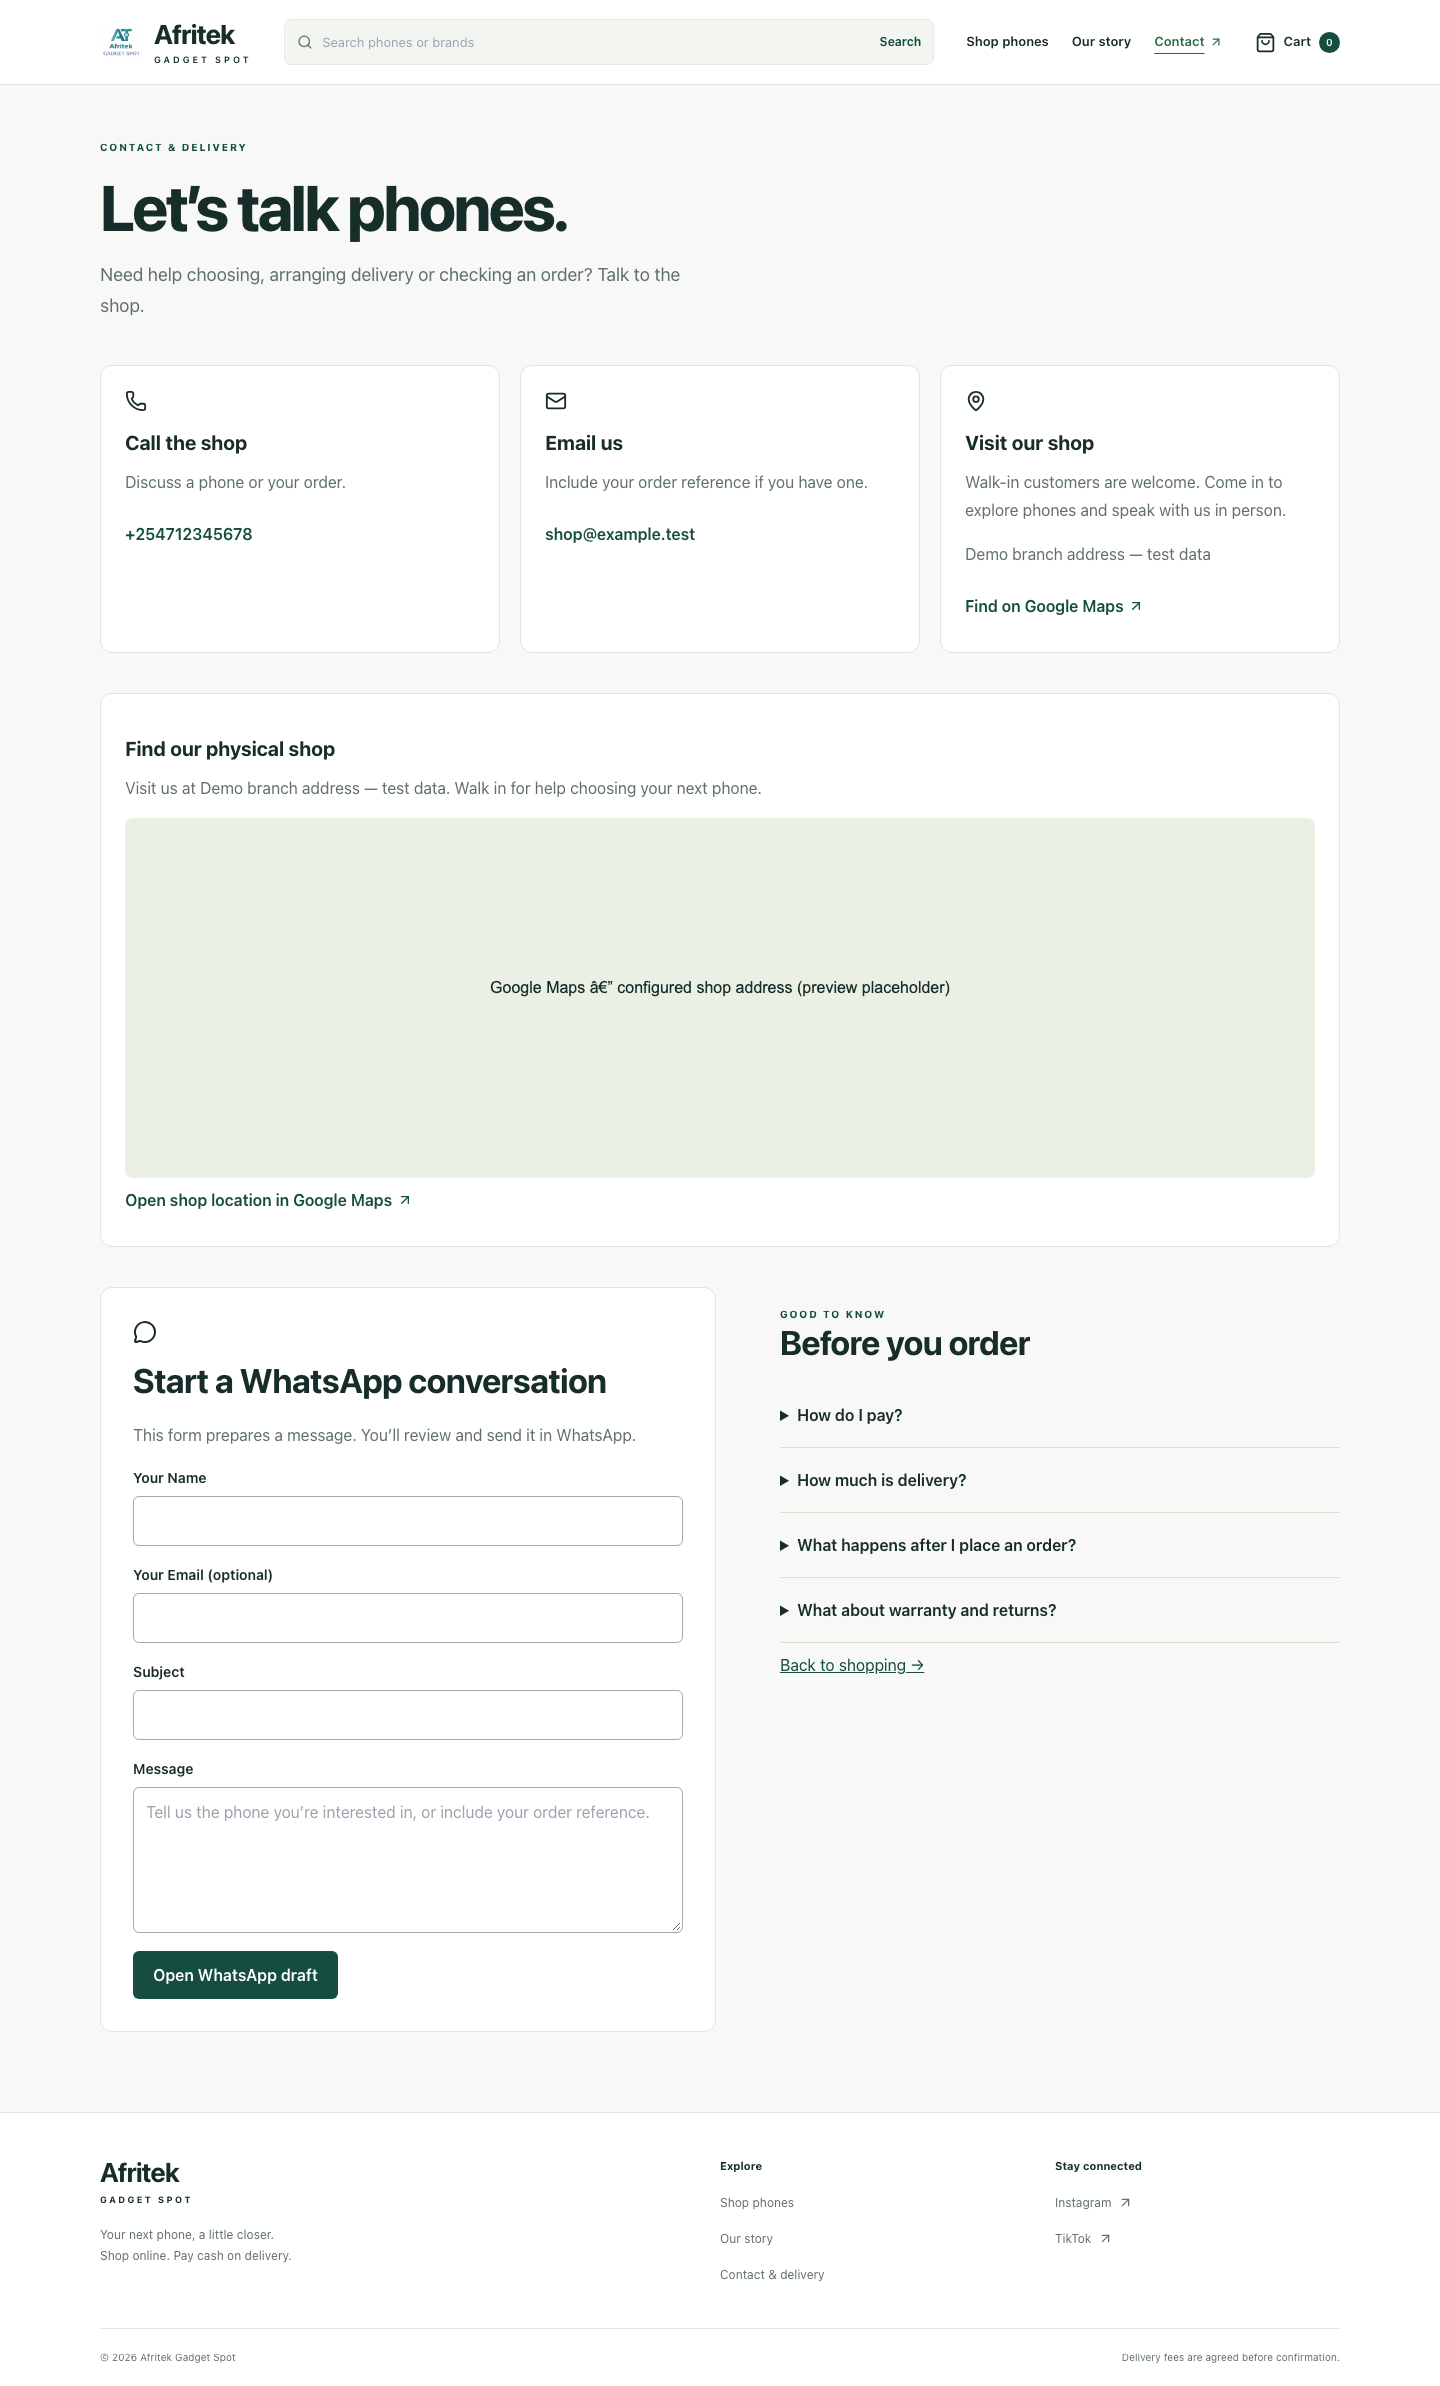
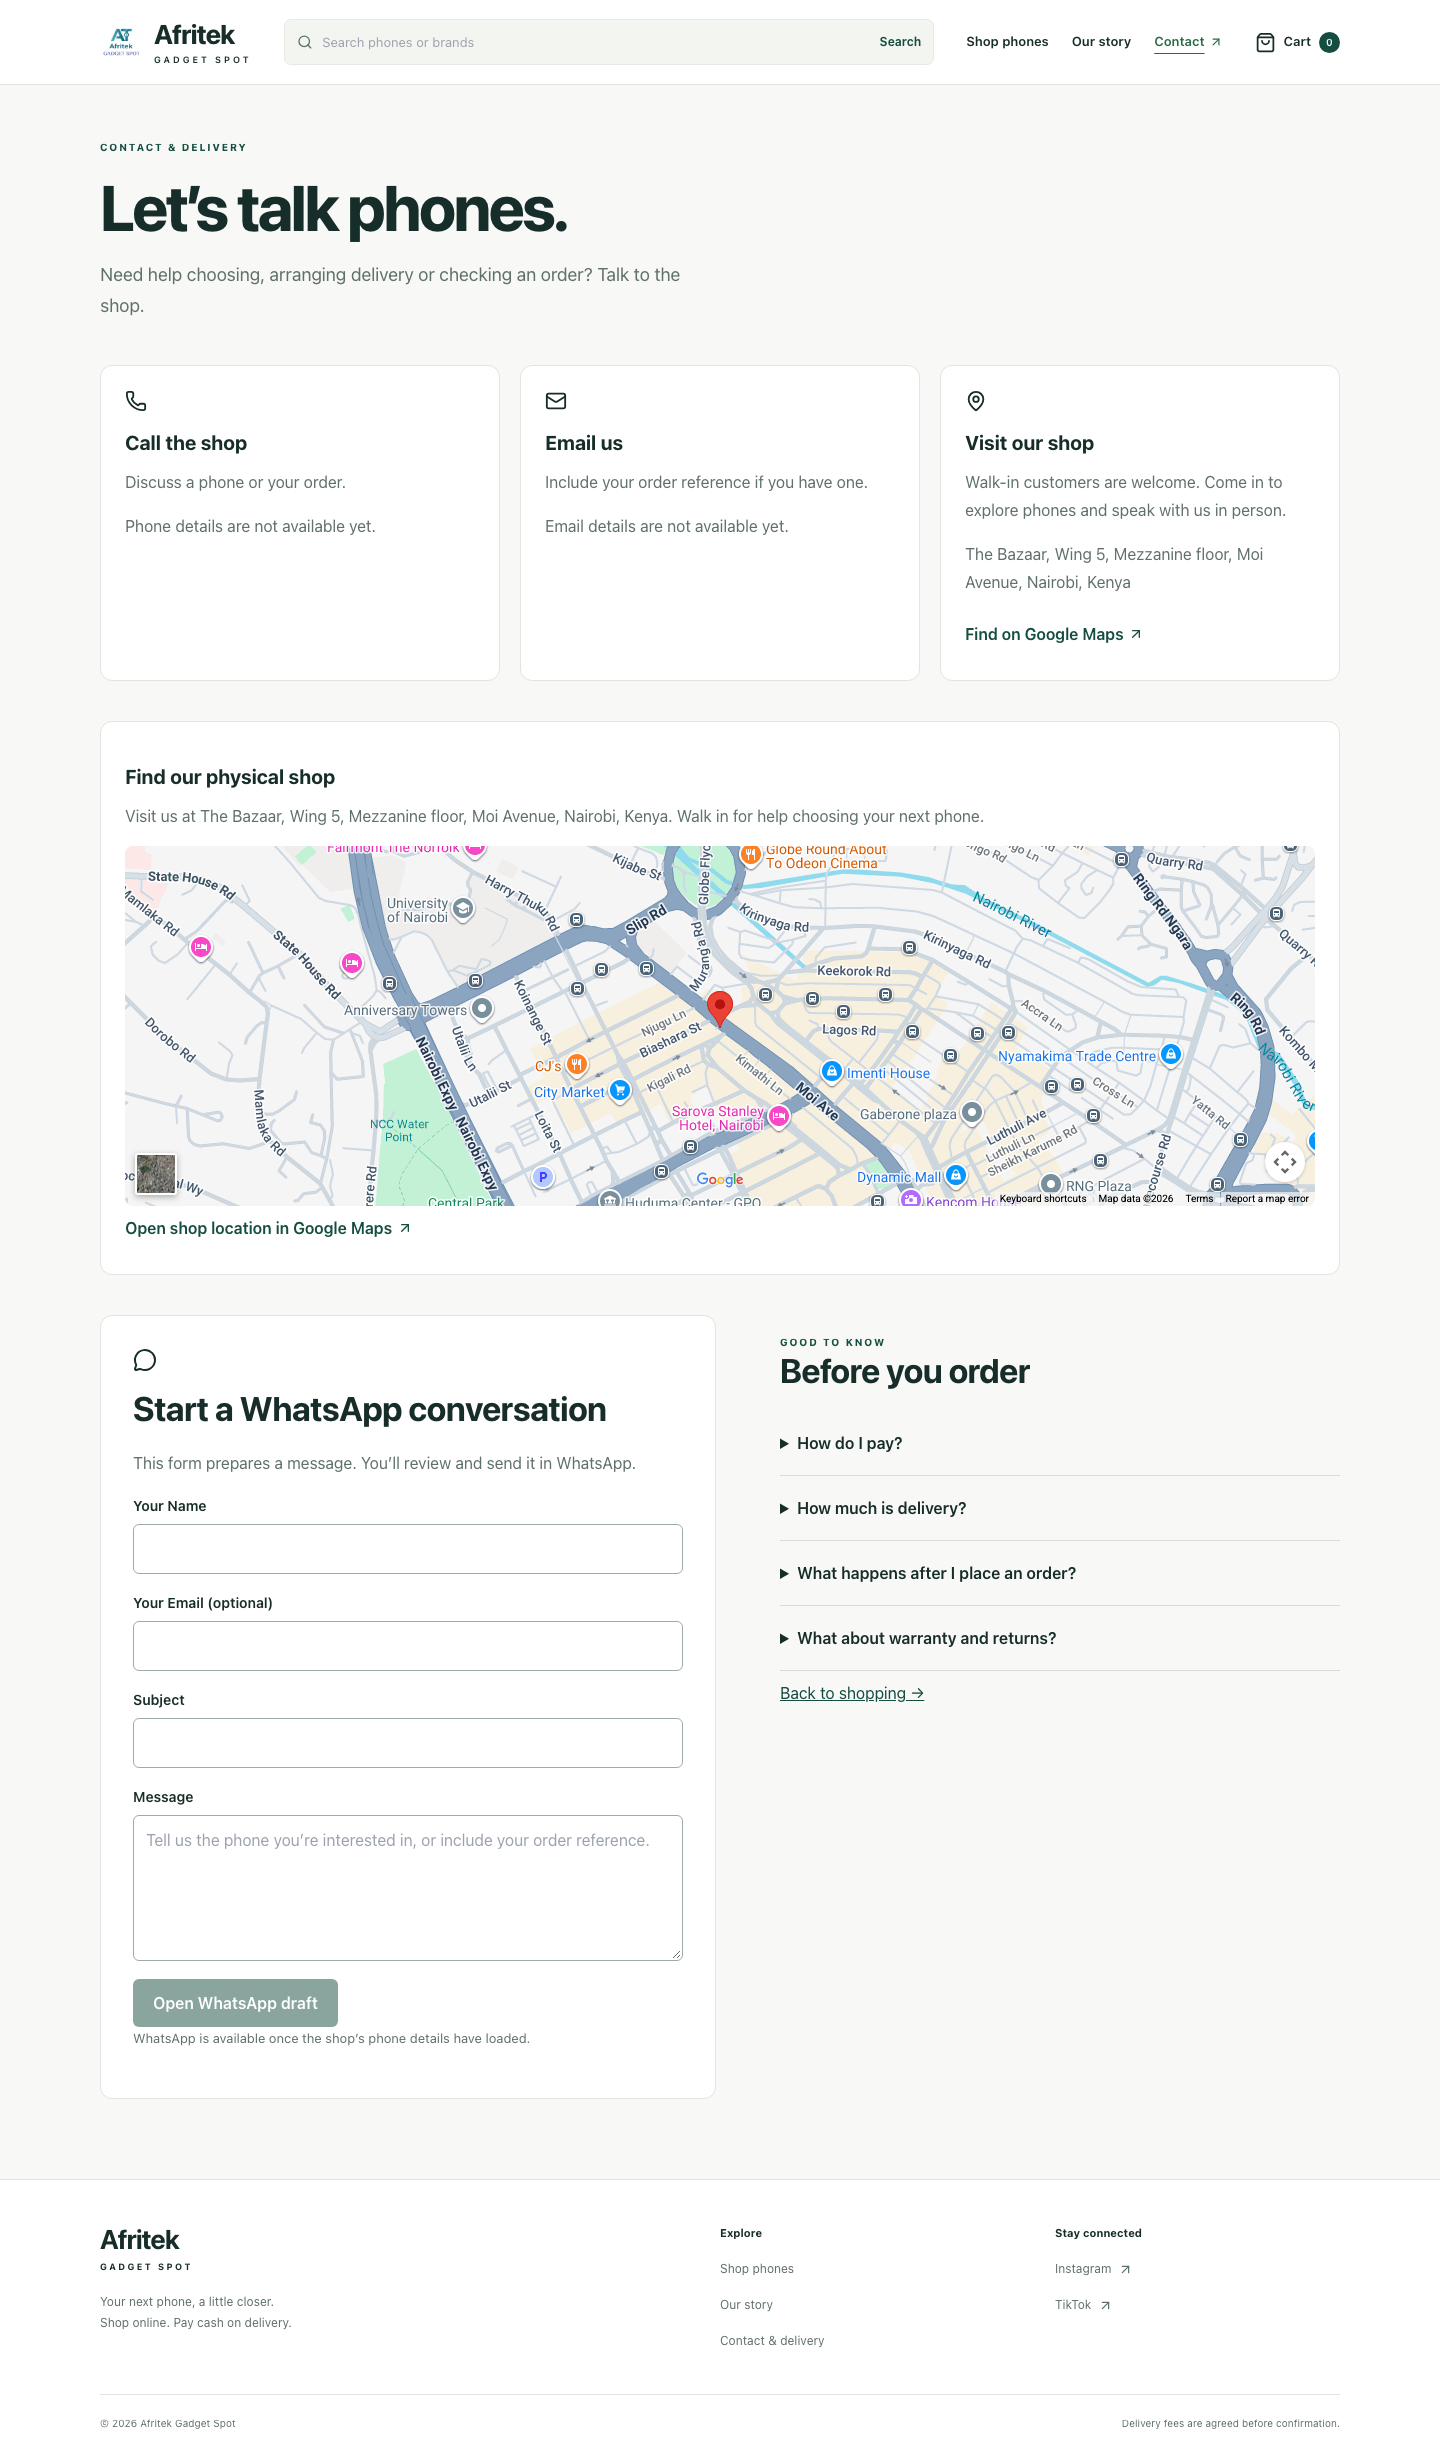
Preserve original branch coordinates and capture real Google Map

diff --git a/afritek-gadget-spot/src/Pages/Contact.js b/afritek-gadget-spot/src/Pages/Contact.js
@@ -8,7 +8,9 @@ export default function Contact() {
   const [form, setForm] = useState({ name: '', email: '', subject: '', message: '' });
   const [notice, setNotice] = useState('');
   const phone = shop.data?.phone;
-  const address = shop.data?.address;
+  const configuredAddress = shop.data?.address?.trim();
+  const address = configuredAddress || 'The Bazaar, Wing 5, Mezzanine floor, Moi Avenue, Nairobi, Kenya';
+  const mapQuery = configuredAddress || '-1.2819548,36.8216073';
   function submit(event) {
     event.preventDefault();
     if (!phone) return;
@@ -22,13 +24,13 @@ export default function Contact() {
     {!shop.loading && !shop.error && <div className="contact-cards">
       <section className="information-card"><Phone size={22} /><h2>Call the shop</h2><p>Discuss a phone or your order.</p>{phone ? <a href={`tel:${phone}`}>{phone}</a> : <p>Phone details are not available yet.</p>}</section>
       <section className="information-card"><Mail size={22} /><h2>Email us</h2><p>Include your order reference if you have one.</p>{shop.data?.email ? <a href={`mailto:${shop.data.email}`}>{shop.data.email}</a> : <p>Email details are not available yet.</p>}</section>
-      <section className="information-card"><MapPin size={22} /><h2>Visit our shop</h2><p>Walk-in customers are welcome. Come in to explore phones and speak with us in person.</p><p>{address || 'Contact the shop for location and opening hours before visiting.'}</p>{address && <a href={`https://www.google.com/maps/search/?api=1&query=${encodeURIComponent(address)}`} target="_blank" rel="noreferrer">Find on Google Maps <ArrowUpRight size={16} /></a>}</section>
+      <section className="information-card"><MapPin size={22} /><h2>Visit our shop</h2><p>Walk-in customers are welcome. Come in to explore phones and speak with us in person.</p><p>{address || 'Contact the shop for location and opening hours before visiting.'}</p>{address && <a href={`https://www.google.com/maps/search/?api=1&query=${encodeURIComponent(mapQuery)}`} target="_blank" rel="noreferrer">Find on Google Maps <ArrowUpRight size={16} /></a>}</section>
     </div>}
     {address && <section className="information-card shop-location" aria-labelledby="shop-location-heading">
       <h2 id="shop-location-heading">Find our physical shop</h2>
       <p>Visit us at {address}. Walk in for help choosing your next phone.</p>
-      <iframe title="Afritek Gadget Spot shop location" src={`https://www.google.com/maps?q=${encodeURIComponent(address)}&output=embed`} width="100%" height="360" loading="lazy" referrerPolicy="no-referrer-when-downgrade" allowFullScreen style={{ border: 0, borderRadius: 8 }} />
-      <a href={`https://www.google.com/maps/search/?api=1&query=${encodeURIComponent(address)}`} target="_blank" rel="noreferrer">Open shop location in Google Maps <ArrowUpRight size={16} /></a>
+      <iframe title="Afritek Gadget Spot shop location" src={`https://www.google.com/maps?q=${encodeURIComponent(mapQuery)}&output=embed`} width="100%" height="360" loading="lazy" referrerPolicy="no-referrer-when-downgrade" allowFullScreen style={{ border: 0, borderRadius: 8 }} />
+      <a href={`https://www.google.com/maps/search/?api=1&query=${encodeURIComponent(mapQuery)}`} target="_blank" rel="noreferrer">Open shop location in Google Maps <ArrowUpRight size={16} /></a>
     </section>}
     <div className="contact-layout"><section className="information-card contact-form"><MessageCircle size={24} /><h2>Start a WhatsApp conversation</h2><p>This form prepares a message. You’ll review and send it in WhatsApp.</p>
       <form onSubmit={submit}>{[['name', 'Your Name', 'text', 120], ['email', 'Your Email (optional)', 'email', 254], ['subject', 'Subject', 'text', 120]].map(([name, label, type, max]) => <label key={name} htmlFor={`contact-${name}`}>{label}<input id={`contact-${name}`} type={type} maxLength={max} required={name !== 'email'} autoComplete={name === 'subject' ? 'off' : name} value={form[name]} onChange={e => setForm({ ...form, [name]: e.target.value })} /></label>)}

diff --git a/afritek-gadget-spot/tests/storefront.spec.js b/afritek-gadget-spot/tests/storefront.spec.js
@@ -224,14 +224,15 @@ test('budget validation, applied chips and browser history preserve filters', as
   await expect(page.getByLabel('Brand', { exact: true })).toHaveValue('Samsung');
 });
 
-test('missing shop details never invent a map or enable a WhatsApp draft', async ({ page }) => {
+test('empty shop settings retain the original physical shop map and disable WhatsApp', async ({ page }) => {
   await mockShop(page, async route => {
     if (new URL(route.request().url()).pathname.endsWith('/shop')) { await route.fulfill({ json: { name: 'Afritek', phone: null, email: null, address: null } }); return true; }
   });
   await page.goto('/contact');
   await expect(page.getByText('Phone details are not available yet.')).toBeVisible();
   await expect(page.getByRole('button', { name: 'Open WhatsApp draft' })).toBeDisabled();
-  await expect(page.locator('a[href*="google.com/maps"], iframe')).toHaveCount(0);
+  await expect(page.getByTitle('Afritek Gadget Spot shop location')).toHaveAttribute('src', 'https://www.google.com/maps?q=-1.2819548%2C36.8216073&output=embed');
+  await expect(page.getByText('The Bazaar, Wing 5, Mezzanine floor, Moi Avenue, Nairobi, Kenya', { exact: true })).toBeVisible();
   await page.getByText('How much is delivery?', { exact: true }).click();
   await expect(page.getByText('We agree the delivery fee and timing', { exact: false })).toBeVisible();
 });

diff --git a/docs/implementation-status.md b/docs/implementation-status.md
@@ -58,3 +58,5 @@ PR checks revealed two existing Netlify integrations. One reported a failed depl
 - Verification: six unit tests, production build and all 22 desktop/mobile browser scenarios passed. Local visual review at 1440, 768, 390 and 320 pixels found no horizontal overflow on shop/contact/about. Reviewed desktop/mobile screenshots are included for the PR; no remote orders or settings were changed.
 
 - PR #7 follow-up: restored the embedded map using the configured shop address and highlighted walk-in customers. No location fallback is used when the address is missing.
+
+- Correction: restored the original storefront’s documented Bazaar branch address and exact coordinates (-1.2819548, 36.8216073) as defaults when backend address settings are empty. An explicit admin address overrides these defaults. Earlier statements about omitting the map for empty settings are superseded.

diff --git a/docs/storefront-design.md b/docs/storefront-design.md
@@ -46,3 +46,5 @@ Preview deployments need their exact origin in the backend allowlist to fetch li
 5. Confirm the production contact settings and replace/remove the temporary test catalogue before taking real orders.
 
 - Walk-in visits: Contact highlights the physical shop and embeds Google Maps using the configured address, with an external map link. The map is omitted only when no address is configured.
+
+- Correction: restored the original storefront’s documented Bazaar branch address and exact coordinates (-1.2819548, 36.8216073) as defaults when backend address settings are empty. An explicit admin address overrides these defaults. Earlier statements about omitting the map for empty settings are superseded.
